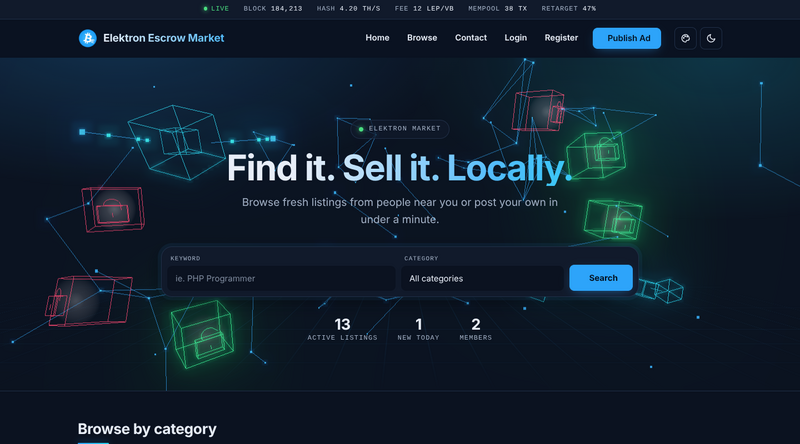
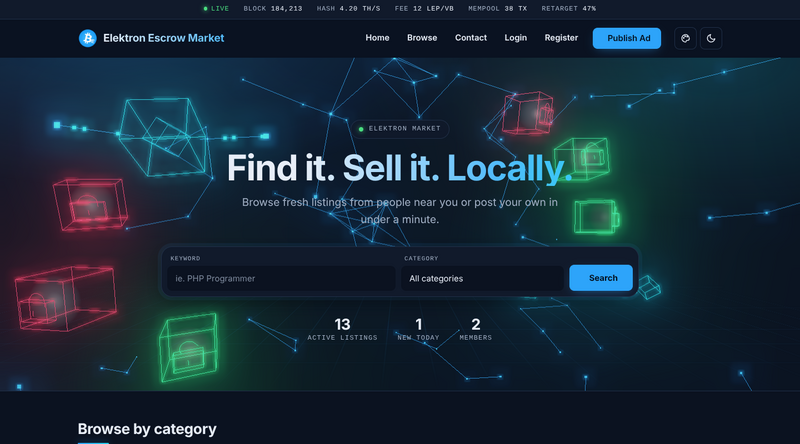
Set the hero glow between subtle and strong

diff --git a/osclass/osclass-elektron/js/hero-three.min.js b/osclass/osclass-elektron/js/hero-three.min.js
@@ -3997,4 +3997,4 @@ void main() {
 
 			#endif
 
-		}`};var lr=class extends Oe{constructor(){super();let t=Ql;this.uniforms=Nn.clone(t.uniforms),this.material=new Ks({name:t.name,uniforms:this.uniforms,vertexShader:t.vertexShader,fragmentShader:t.fragmentShader}),this.fsQuad=new Fn(this.material),this._outputColorSpace=null,this._toneMapping=null}render(t,e,n){this.uniforms.tDiffuse.value=n.texture,this.uniforms.toneMappingExposure.value=t.toneMappingExposure,(this._outputColorSpace!==t.outputColorSpace||this._toneMapping!==t.toneMapping)&&(this._outputColorSpace=t.outputColorSpace,this._toneMapping=t.toneMapping,this.material.defines={},qt.getTransfer(this._outputColorSpace)===Kt&&(this.material.defines.SRGB_TRANSFER=""),this._toneMapping===no?this.material.defines.LINEAR_TONE_MAPPING="":this._toneMapping===io?this.material.defines.REINHARD_TONE_MAPPING="":this._toneMapping===so?this.material.defines.CINEON_TONE_MAPPING="":this._toneMapping===ro?this.material.defines.ACES_FILMIC_TONE_MAPPING="":this._toneMapping===ao?this.material.defines.AGX_TONE_MAPPING="":this._toneMapping===oo&&(this.material.defines.NEUTRAL_TONE_MAPPING=""),this.material.needsUpdate=!0),this.renderToScreen===!0?(t.setRenderTarget(null),this.fsQuad.render(t)):(t.setRenderTarget(e),this.clear&&t.clear(t.autoClearColor,t.autoClearDepth,t.autoClearStencil),this.fsQuad.render(t))}dispose(){this.material.dispose(),this.fsQuad.dispose()}};function jl(){"use strict";var i=document.querySelector(".hero-canvas");if(!i)return;var t=document.documentElement,e=!!(window.matchMedia&&window.matchMedia("(prefers-reduced-motion: reduce)").matches),n=t.getAttribute("data-motion")!=="respect",s=e&&!n,r=e?.5:1,a=window.matchMedia&&window.matchMedia("(max-width: 720px)").matches,o;try{o=new qs({canvas:i,alpha:!0,antialias:!0,powerPreference:"low-power"})}catch(J){window.console&&console.warn("Elektron hero: WebGL unavailable",J);return}i.setAttribute("data-engine","three");var l=a?44:90,c=2.6,u=l*6,d={x:11,y:6,z:5},f=new Ys,m=new ye(55,1,.1,100);m.position.z=11;var g=new ar(o);g.addPass(new or(f,m)),g.addPass(new Ii(new zt(256,256),.32,.3,.45)),g.addPass(new lr);var v=!1;function p(J){v=J,o.setClearColor(0,J?1:0),i.setAttribute("data-bloom",J?"1":"0")}var h=new Ce;f.add(h);for(var E=new Float32Array(l*3),w=new Float32Array(l*3),M=0;M<l;M++)E[M*3]=(Math.random()-.5)*d.x*2,E[M*3+1]=(Math.random()-.5)*d.y*2,E[M*3+2]=(Math.random()-.5)*d.z*2,w[M*3]=(Math.random()-.5)*.006,w[M*3+1]=(Math.random()-.5)*.006,w[M*3+2]=(Math.random()-.5)*.006;var F=new le;F.setAttribute("position",new oe(E,3));var T=new Un({size:.12,transparent:!0,opacity:.9,depthWrite:!1,blending:Ye});h.add(new Kn(F,T));var A=new Float32Array(u*6),D=new le;D.setAttribute("position",new oe(A,3)),D.setDrawRange(0,0);var S=new nn({transparent:!0,opacity:.28,depthWrite:!1,blending:Ye});h.add(new Pe(D,S));for(var y=new nn({transparent:!0,opacity:.7,depthWrite:!1}),C=new nn({transparent:!0,opacity:.45,depthWrite:!1}),G=new Ce,z=new Qn(new en(1.1,1.1,1.1)),q=a?4:6,K=[],H=0;H<q;H++){var j=new Pe(z,y);if(j.position.set((H-(q-1)/2)*2.1,Math.sin(H*.9)*.5,0),G.add(j),K.push(j),H>0){var V=K[H-1].position,lt=new le;lt.setAttribute("position",new oe(new Float32Array([V.x+.55,V.y,0,j.position.x-.55,j.position.y,0]),3)),G.add(new Pe(lt,C))}}h.add(G);var ct=new Ce,_t=[-2.7,.2,0],Ut=[2.7,.2,0],Zt=new Pe(new Qn(new en(1.5,1.5,1.5)),y),X=new Pe(new Qn(new en(.7,.7,.7)),C),tt=new Ce;tt.add(Zt),tt.add(X),ct.add(tt);var xt=new le;xt.setAttribute("position",new oe(new Float32Array(_t.concat(Ut)),3));var st=new Un({size:.42,transparent:!0,opacity:.95,depthWrite:!1,blending:Ye});ct.add(new Kn(xt,st));var Tt=new le;Tt.setAttribute("position",new oe(new Float32Array([_t[0],_t[1],0,-.85,0,0,Ut[0],Ut[1],0,.85,0,0]),3));var Rt=new nn({transparent:!0,opacity:.5,depthWrite:!1});ct.add(new Pe(Tt,Rt));var Ft=6,Qt=new Float32Array(Ft*3),Gt=new le;Gt.setAttribute("position",new oe(Qt,3));var ee=new Un({size:.26,transparent:!0,opacity:1,depthWrite:!1,blending:Ye});ct.add(new Kn(Gt,ee)),h.add(ct);var L="#ff2d4a",be="#2dff7a",Wt="#d11a36",Xt="#0f9d4a";function Et(){var J=128,nt=document.createElement("canvas");nt.width=nt.height=J;var vt=nt.getContext("2d"),it=vt.createRadialGradient(J/2,J/2,0,J/2,J/2,J/2);return it.addColorStop(0,"rgba(255,255,255,1)"),it.addColorStop(.35,"rgba(255,255,255,0.35)"),it.addColorStop(1,"rgba(255,255,255,0)"),vt.fillStyle=it,vt.fillRect(0,0,J,J),new $s(nt)}var te=Et(),wt=new nn({transparent:!0,opacity:.95,depthWrite:!1}),b=new nn({transparent:!0,opacity:.95,depthWrite:!1}),_=new Qn(new en(.6,.44,.16));function N(J,nt,vt,it){for(var It=[],Ht=0;Ht<it;Ht++){var ne=nt+(vt-nt)*Ht/it,we=nt+(vt-nt)*(Ht+1)/it;It.push(Math.cos(ne)*J,Math.sin(ne)*J,0,Math.cos(we)*J,Math.sin(we)*J,0)}var ce=new le;return ce.setAttribute("position",new oe(new Float32Array(It),3)),ce}var Z=N(.17,0,Math.PI,14);function $(J,nt){var vt=new Ce,it=new Pe(_,J);it.position.y=-.1,vt.add(it);var It=new Ce;It.add(new Pe(Z,J));var Ht=new le;Ht.setAttribute("position",new oe(new Float32Array([-.17,0,0,-.17,nt?.05:0,0,.17,0,0,.17,-.12,0]),3)),It.add(new Pe(Ht,J)),It.position.set(0,.12,0),nt&&(It.position.set(-.17,.2,0),It.rotation.z=.7,It.position.x=0),vt.add(It);var ne=new le;return ne.setAttribute("position",new oe(new Float32Array([0,-.06,.09,0,-.18,.09]),3)),vt.add(new Pe(ne,J)),vt}var W=!1,gt=[],rt=[];function mt(J){var nt=new Ce,vt=J?b:wt,it=new Pe(z,vt);nt.add(it);var It=$(vt,J);It.position.z=.62,nt.add(It);var Ht=new le;Ht.setAttribute("position",new oe(new Float32Array([0,0,.3]),3));var ne=new Un({size:3.4,map:te,transparent:!0,opacity:.5,depthWrite:!1,blending:Ye});return ne.userData={open:J},rt.push(ne),nt.add(new Kn(Ht,ne)),nt.userData={phase:Math.random()*Math.PI*2,open:J,glow:ne},gt.push(nt),h.add(nt),nt}for(var Vt={wide:[[-11.2,-2.6,-2.5,!1],[-7.6,-4.6,-3,!0],[9.8,3.4,-3,!0],[-11.4,.6,-4,!1],[7.2,5.2,-3.5,!1],[11.6,.2,-4,!0]],narrow:[[-3,6,-3],[3,5.2,-3],[-3,-6.1,-3],[3,-5.3,-3]]},Q=0;Q<Vt.wide.length;Q++)mt(Vt.wide[Q][3]);function ft(J,nt){for(var vt=0;vt<gt.length;vt++){var it=J[vt],It=gt[vt];It.visible=!!it,it&&(It.position.set(it[0],it[1],it[2]),It.scale.setScalar(nt),It.userData.baseY=it[1])}}function At(J){J>=1.25?(ct.position.set(-8.4,3.3,-3),ct.scale.setScalar(1.3),G.position.set(10.4,-3,-3),G.scale.setScalar(.66),ft(Vt.wide,1.5)):(ft(Vt.narrow,.8),ct.position.set(0,6.1,-3),ct.scale.setScalar(.55),G.position.set(0,-6.2,-3),G.scale.setScalar(.5))}function Ct(){var J=window.getComputedStyle(t),nt=new Lt(J.getPropertyValue("--pal-accent").trim()||"#2da4fa"),vt=new Lt(J.getPropertyValue("--pal-accent-2").trim()||"#22d3ee"),it=t.getAttribute("data-scheme")==="light"||!t.getAttribute("data-scheme")&&t.getAttribute("data-default-scheme")==="light";it&&(nt=new Lt(J.getPropertyValue("--pal-l-link").trim()||"#0a67b4"));var It=!it;p(It);function Ht(ce,$e,ei,Zi){ce.color.copy($e),It&&ce.color.multiplyScalar(ei),ce.opacity=Zi}Ht(T,nt,1.15,it?.75:1),Ht(S,nt,1,it?.35:.6),Ht(st,nt,1.5,1),Ht(Rt,nt,1.1,it?.5:.85),Ht(ee,vt,1.8,1),Ht(y,vt,1.1,it?.7:1),Ht(C,vt,1,it?.45:.8),Ht(wt,new Lt(it?Wt:L),1.7,1),Ht(b,new Lt(it?Xt:be),1.35,1),W=it;for(var ne=it?Cn:Ye,we=0;we<rt.length;we++)rt[we].blending=ne,rt[we].needsUpdate=!0;T.blending=S.blending=st.blending=ee.blending=ne,T.needsUpdate=S.needsUpdate=st.needsUpdate=ee.needsUpdate=!0}Ct(),ft(Vt.wide,1.5),new MutationObserver(function(){Ct(),s&&at(0)}).observe(t,{attributes:!0,attributeFilter:["data-scheme","data-palette"]});function pt(){var J=i.clientWidth,nt=i.clientHeight;if(!(!J||!nt)){var vt=Math.min(window.devicePixelRatio||1,a?1:1.5);o.setPixelRatio(vt),o.setSize(J,nt,!1),g.setPixelRatio(vt),g.setSize(J,nt),m.aspect=J/nt,m.updateProjectionMatrix(),At(m.aspect)}}pt(),window.ResizeObserver?new ResizeObserver(pt).observe(i):window.addEventListener("resize",pt);var Pt={x:0,y:0,tx:0,ty:0};s||window.addEventListener("pointermove",function(J){Pt.tx=(J.clientX/window.innerWidth-.5)*2,Pt.ty=(J.clientY/window.innerHeight-.5)*2},{passive:!0});function Nt(){for(var J=0,nt=c*c,vt=0;vt<l&&J<u;vt++)for(var it=vt+1;it<l&&J<u;it++){var It=E[vt*3]-E[it*3],Ht=E[vt*3+1]-E[it*3+1],ne=E[vt*3+2]-E[it*3+2];It*It+Ht*Ht+ne*ne<nt&&(A.set(E.subarray(vt*3,vt*3+3),J*6),A.set(E.subarray(it*3,it*3+3),J*6+3),J++)}D.setDrawRange(0,J*2),D.attributes.position.needsUpdate=!0}function jt(J){for(var nt=0;nt<Ft;nt++){var vt=nt%2===0,it=(J*35e-5+nt/Ft*1.7)%1,It=vt?_t[0]:Ut[0],Ht=vt?-.85:.85;Qt[nt*3]=It+(Ht-It)*it,Qt[nt*3+1]=_t[1]+(0-_t[1])*it,Qt[nt*3+2]=0}Gt.attributes.position.needsUpdate=!0}function R(J){for(var nt=J*r,vt=0;vt<l;vt++)for(var it=0;it<3;it++){var It=vt*3+it,Ht=it===0?d.x:it===1?d.y:d.z;E[It]+=w[It]*r,(E[It]>Ht||E[It]<-Ht)&&(w[It]*=-1)}F.attributes.position.needsUpdate=!0,Nt(),jt(nt),Pt.x+=(Pt.tx-Pt.x)*.04,Pt.y+=(Pt.ty-Pt.y)*.04,h.rotation.y=nt*6e-5+Pt.x*.18,h.rotation.x=Pt.y*.1;for(var ne=0;ne<K.length;ne++)K[ne].rotation.y=nt*4e-4+ne*.5,K[ne].rotation.x=nt*2e-4+ne*.3;for(var we=0;we<gt.length;we++){var ce=gt[we],$e=ce.userData.phase;ce.rotation.y=Math.sin(nt*5e-4+$e)*.7,ce.rotation.x=Math.sin(nt*4e-4+$e*1.3)*.25,ce.position.y=ce.userData.baseY+Math.sin(nt*7e-4+$e)*.25;var ei=.5+.5*Math.sin(nt*(ce.userData.open?.0016:.0027)+$e);ce.userData.glow.opacity=(W?.28:.03)+ei*(W?.3:.08)}Zt.rotation.y=nt*5e-4,Zt.rotation.x=nt*3e-4,X.rotation.y=-nt*9e-4,X.rotation.z=nt*6e-4}function at(J){R(J),v?g.render():o.render(f,m)}if(s){at(0);return}var k=0,Y=!0;function ut(J){k=0,!(!Y||document.hidden)&&(at(J),k=window.requestAnimationFrame(ut))}function ht(){k||(k=window.requestAnimationFrame(ut))}window.IntersectionObserver&&new IntersectionObserver(function(J){Y=J[0].isIntersecting,Y&&ht()}).observe(i),document.addEventListener("visibilitychange",ht),ht()}document.readyState==="loading"?document.addEventListener("DOMContentLoaded",jl):jl();})();
+		}`};var lr=class extends Oe{constructor(){super();let t=Ql;this.uniforms=Nn.clone(t.uniforms),this.material=new Ks({name:t.name,uniforms:this.uniforms,vertexShader:t.vertexShader,fragmentShader:t.fragmentShader}),this.fsQuad=new Fn(this.material),this._outputColorSpace=null,this._toneMapping=null}render(t,e,n){this.uniforms.tDiffuse.value=n.texture,this.uniforms.toneMappingExposure.value=t.toneMappingExposure,(this._outputColorSpace!==t.outputColorSpace||this._toneMapping!==t.toneMapping)&&(this._outputColorSpace=t.outputColorSpace,this._toneMapping=t.toneMapping,this.material.defines={},qt.getTransfer(this._outputColorSpace)===Kt&&(this.material.defines.SRGB_TRANSFER=""),this._toneMapping===no?this.material.defines.LINEAR_TONE_MAPPING="":this._toneMapping===io?this.material.defines.REINHARD_TONE_MAPPING="":this._toneMapping===so?this.material.defines.CINEON_TONE_MAPPING="":this._toneMapping===ro?this.material.defines.ACES_FILMIC_TONE_MAPPING="":this._toneMapping===ao?this.material.defines.AGX_TONE_MAPPING="":this._toneMapping===oo&&(this.material.defines.NEUTRAL_TONE_MAPPING=""),this.material.needsUpdate=!0),this.renderToScreen===!0?(t.setRenderTarget(null),this.fsQuad.render(t)):(t.setRenderTarget(e),this.clear&&t.clear(t.autoClearColor,t.autoClearDepth,t.autoClearStencil),this.fsQuad.render(t))}dispose(){this.material.dispose(),this.fsQuad.dispose()}};function jl(){"use strict";var i=document.querySelector(".hero-canvas");if(!i)return;var t=document.documentElement,e=!!(window.matchMedia&&window.matchMedia("(prefers-reduced-motion: reduce)").matches),n=t.getAttribute("data-motion")!=="respect",s=e&&!n,r=e?.5:1,a=window.matchMedia&&window.matchMedia("(max-width: 720px)").matches,o;try{o=new qs({canvas:i,alpha:!0,antialias:!0,powerPreference:"low-power"})}catch(J){window.console&&console.warn("Elektron hero: WebGL unavailable",J);return}i.setAttribute("data-engine","three");var l=a?44:90,c=2.6,u=l*6,d={x:11,y:6,z:5},f=new Ys,m=new ye(55,1,.1,100);m.position.z=11;var g=new ar(o);g.addPass(new or(f,m)),g.addPass(new Ii(new zt(256,256),.5,.35,.32)),g.addPass(new lr);var v=!1;function p(J){v=J,o.setClearColor(0,J?1:0),i.setAttribute("data-bloom",J?"1":"0")}var h=new Ce;f.add(h);for(var E=new Float32Array(l*3),w=new Float32Array(l*3),M=0;M<l;M++)E[M*3]=(Math.random()-.5)*d.x*2,E[M*3+1]=(Math.random()-.5)*d.y*2,E[M*3+2]=(Math.random()-.5)*d.z*2,w[M*3]=(Math.random()-.5)*.006,w[M*3+1]=(Math.random()-.5)*.006,w[M*3+2]=(Math.random()-.5)*.006;var F=new le;F.setAttribute("position",new oe(E,3));var T=new Un({size:.12,transparent:!0,opacity:.9,depthWrite:!1,blending:Ye});h.add(new Kn(F,T));var A=new Float32Array(u*6),D=new le;D.setAttribute("position",new oe(A,3)),D.setDrawRange(0,0);var S=new nn({transparent:!0,opacity:.28,depthWrite:!1,blending:Ye});h.add(new Pe(D,S));for(var y=new nn({transparent:!0,opacity:.7,depthWrite:!1}),C=new nn({transparent:!0,opacity:.45,depthWrite:!1}),G=new Ce,z=new Qn(new en(1.1,1.1,1.1)),q=a?4:6,K=[],H=0;H<q;H++){var j=new Pe(z,y);if(j.position.set((H-(q-1)/2)*2.1,Math.sin(H*.9)*.5,0),G.add(j),K.push(j),H>0){var V=K[H-1].position,lt=new le;lt.setAttribute("position",new oe(new Float32Array([V.x+.55,V.y,0,j.position.x-.55,j.position.y,0]),3)),G.add(new Pe(lt,C))}}h.add(G);var ct=new Ce,_t=[-2.7,.2,0],Ut=[2.7,.2,0],Zt=new Pe(new Qn(new en(1.5,1.5,1.5)),y),X=new Pe(new Qn(new en(.7,.7,.7)),C),tt=new Ce;tt.add(Zt),tt.add(X),ct.add(tt);var xt=new le;xt.setAttribute("position",new oe(new Float32Array(_t.concat(Ut)),3));var st=new Un({size:.42,transparent:!0,opacity:.95,depthWrite:!1,blending:Ye});ct.add(new Kn(xt,st));var Tt=new le;Tt.setAttribute("position",new oe(new Float32Array([_t[0],_t[1],0,-.85,0,0,Ut[0],Ut[1],0,.85,0,0]),3));var Rt=new nn({transparent:!0,opacity:.5,depthWrite:!1});ct.add(new Pe(Tt,Rt));var Ft=6,Qt=new Float32Array(Ft*3),Gt=new le;Gt.setAttribute("position",new oe(Qt,3));var ee=new Un({size:.26,transparent:!0,opacity:1,depthWrite:!1,blending:Ye});ct.add(new Kn(Gt,ee)),h.add(ct);var L="#ff2d4a",be="#2dff7a",Wt="#d11a36",Xt="#0f9d4a";function Et(){var J=128,nt=document.createElement("canvas");nt.width=nt.height=J;var vt=nt.getContext("2d"),it=vt.createRadialGradient(J/2,J/2,0,J/2,J/2,J/2);return it.addColorStop(0,"rgba(255,255,255,1)"),it.addColorStop(.35,"rgba(255,255,255,0.35)"),it.addColorStop(1,"rgba(255,255,255,0)"),vt.fillStyle=it,vt.fillRect(0,0,J,J),new $s(nt)}var te=Et(),wt=new nn({transparent:!0,opacity:.95,depthWrite:!1}),b=new nn({transparent:!0,opacity:.95,depthWrite:!1}),_=new Qn(new en(.6,.44,.16));function N(J,nt,vt,it){for(var It=[],Ht=0;Ht<it;Ht++){var ne=nt+(vt-nt)*Ht/it,we=nt+(vt-nt)*(Ht+1)/it;It.push(Math.cos(ne)*J,Math.sin(ne)*J,0,Math.cos(we)*J,Math.sin(we)*J,0)}var ce=new le;return ce.setAttribute("position",new oe(new Float32Array(It),3)),ce}var Z=N(.17,0,Math.PI,14);function $(J,nt){var vt=new Ce,it=new Pe(_,J);it.position.y=-.1,vt.add(it);var It=new Ce;It.add(new Pe(Z,J));var Ht=new le;Ht.setAttribute("position",new oe(new Float32Array([-.17,0,0,-.17,nt?.05:0,0,.17,0,0,.17,-.12,0]),3)),It.add(new Pe(Ht,J)),It.position.set(0,.12,0),nt&&(It.position.set(-.17,.2,0),It.rotation.z=.7,It.position.x=0),vt.add(It);var ne=new le;return ne.setAttribute("position",new oe(new Float32Array([0,-.06,.09,0,-.18,.09]),3)),vt.add(new Pe(ne,J)),vt}var W=!1,gt=[],rt=[];function mt(J){var nt=new Ce,vt=J?b:wt,it=new Pe(z,vt);nt.add(it);var It=$(vt,J);It.position.z=.62,nt.add(It);var Ht=new le;Ht.setAttribute("position",new oe(new Float32Array([0,0,.3]),3));var ne=new Un({size:3.4,map:te,transparent:!0,opacity:.5,depthWrite:!1,blending:Ye});return ne.userData={open:J},rt.push(ne),nt.add(new Kn(Ht,ne)),nt.userData={phase:Math.random()*Math.PI*2,open:J,glow:ne},gt.push(nt),h.add(nt),nt}for(var Vt={wide:[[-11.2,-2.6,-2.5,!1],[-7.6,-4.6,-3,!0],[9.8,3.4,-3,!0],[-11.4,.6,-4,!1],[7.2,5.2,-3.5,!1],[11.6,.2,-4,!0]],narrow:[[-3,6,-3],[3,5.2,-3],[-3,-6.1,-3],[3,-5.3,-3]]},Q=0;Q<Vt.wide.length;Q++)mt(Vt.wide[Q][3]);function ft(J,nt){for(var vt=0;vt<gt.length;vt++){var it=J[vt],It=gt[vt];It.visible=!!it,it&&(It.position.set(it[0],it[1],it[2]),It.scale.setScalar(nt),It.userData.baseY=it[1])}}function At(J){J>=1.25?(ct.position.set(-8.4,3.3,-3),ct.scale.setScalar(1.3),G.position.set(10.4,-3,-3),G.scale.setScalar(.66),ft(Vt.wide,1.5)):(ft(Vt.narrow,.8),ct.position.set(0,6.1,-3),ct.scale.setScalar(.55),G.position.set(0,-6.2,-3),G.scale.setScalar(.5))}function Ct(){var J=window.getComputedStyle(t),nt=new Lt(J.getPropertyValue("--pal-accent").trim()||"#2da4fa"),vt=new Lt(J.getPropertyValue("--pal-accent-2").trim()||"#22d3ee"),it=t.getAttribute("data-scheme")==="light"||!t.getAttribute("data-scheme")&&t.getAttribute("data-default-scheme")==="light";it&&(nt=new Lt(J.getPropertyValue("--pal-l-link").trim()||"#0a67b4"));var It=!it;p(It);function Ht(ce,$e,ei,Zi){ce.color.copy($e),It&&ce.color.multiplyScalar(ei),ce.opacity=Zi}Ht(T,nt,1.4,it?.75:1),Ht(S,nt,1.18,it?.35:.6),Ht(st,nt,1.8,1),Ht(Rt,nt,1.3,it?.5:.85),Ht(ee,vt,2.1,1),Ht(y,vt,1.3,it?.7:1),Ht(C,vt,1.15,it?.45:.8),Ht(wt,new Lt(it?Wt:L),2,1),Ht(b,new Lt(it?Xt:be),1.6,1),W=it;for(var ne=it?Cn:Ye,we=0;we<rt.length;we++)rt[we].blending=ne,rt[we].needsUpdate=!0;T.blending=S.blending=st.blending=ee.blending=ne,T.needsUpdate=S.needsUpdate=st.needsUpdate=ee.needsUpdate=!0}Ct(),ft(Vt.wide,1.5),new MutationObserver(function(){Ct(),s&&at(0)}).observe(t,{attributes:!0,attributeFilter:["data-scheme","data-palette"]});function pt(){var J=i.clientWidth,nt=i.clientHeight;if(!(!J||!nt)){var vt=Math.min(window.devicePixelRatio||1,a?1:1.5);o.setPixelRatio(vt),o.setSize(J,nt,!1),g.setPixelRatio(vt),g.setSize(J,nt),m.aspect=J/nt,m.updateProjectionMatrix(),At(m.aspect)}}pt(),window.ResizeObserver?new ResizeObserver(pt).observe(i):window.addEventListener("resize",pt);var Pt={x:0,y:0,tx:0,ty:0};s||window.addEventListener("pointermove",function(J){Pt.tx=(J.clientX/window.innerWidth-.5)*2,Pt.ty=(J.clientY/window.innerHeight-.5)*2},{passive:!0});function Nt(){for(var J=0,nt=c*c,vt=0;vt<l&&J<u;vt++)for(var it=vt+1;it<l&&J<u;it++){var It=E[vt*3]-E[it*3],Ht=E[vt*3+1]-E[it*3+1],ne=E[vt*3+2]-E[it*3+2];It*It+Ht*Ht+ne*ne<nt&&(A.set(E.subarray(vt*3,vt*3+3),J*6),A.set(E.subarray(it*3,it*3+3),J*6+3),J++)}D.setDrawRange(0,J*2),D.attributes.position.needsUpdate=!0}function jt(J){for(var nt=0;nt<Ft;nt++){var vt=nt%2===0,it=(J*35e-5+nt/Ft*1.7)%1,It=vt?_t[0]:Ut[0],Ht=vt?-.85:.85;Qt[nt*3]=It+(Ht-It)*it,Qt[nt*3+1]=_t[1]+(0-_t[1])*it,Qt[nt*3+2]=0}Gt.attributes.position.needsUpdate=!0}function R(J){for(var nt=J*r,vt=0;vt<l;vt++)for(var it=0;it<3;it++){var It=vt*3+it,Ht=it===0?d.x:it===1?d.y:d.z;E[It]+=w[It]*r,(E[It]>Ht||E[It]<-Ht)&&(w[It]*=-1)}F.attributes.position.needsUpdate=!0,Nt(),jt(nt),Pt.x+=(Pt.tx-Pt.x)*.04,Pt.y+=(Pt.ty-Pt.y)*.04,h.rotation.y=nt*6e-5+Pt.x*.18,h.rotation.x=Pt.y*.1;for(var ne=0;ne<K.length;ne++)K[ne].rotation.y=nt*4e-4+ne*.5,K[ne].rotation.x=nt*2e-4+ne*.3;for(var we=0;we<gt.length;we++){var ce=gt[we],$e=ce.userData.phase;ce.rotation.y=Math.sin(nt*5e-4+$e)*.7,ce.rotation.x=Math.sin(nt*4e-4+$e*1.3)*.25,ce.position.y=ce.userData.baseY+Math.sin(nt*7e-4+$e)*.25;var ei=.5+.5*Math.sin(nt*(ce.userData.open?.0016:.0027)+$e);ce.userData.glow.opacity=(W?.28:.045)+ei*(W?.3:.11)}Zt.rotation.y=nt*5e-4,Zt.rotation.x=nt*3e-4,X.rotation.y=-nt*9e-4,X.rotation.z=nt*6e-4}function at(J){R(J),v?g.render():o.render(f,m)}if(s){at(0);return}var k=0,Y=!0;function ut(J){k=0,!(!Y||document.hidden)&&(at(J),k=window.requestAnimationFrame(ut))}function ht(){k||(k=window.requestAnimationFrame(ut))}window.IntersectionObserver&&new IntersectionObserver(function(J){Y=J[0].isIntersecting,Y&&ht()}).observe(i),document.addEventListener("visibilitychange",ht),ht()}document.readyState==="loading"?document.addEventListener("DOMContentLoaded",jl):jl();})();

diff --git a/osclass/osclass-elektron/js/src/hero-three.js b/osclass/osclass-elektron/js/src/hero-three.js
@@ -59,7 +59,7 @@ function init() {
   // Bloom makes every bright line, point and padlock glow in its own color (dark scheme only)
   var composer = new EffectComposer(renderer);
   composer.addPass(new RenderPass(scene, camera));
-  composer.addPass(new UnrealBloomPass(new Vector2(256, 256), 0.32, 0.3, 0.45));
+  composer.addPass(new UnrealBloomPass(new Vector2(256, 256), 0.5, 0.35, 0.32));
   composer.addPass(new OutputPass());
   var bloomOn = false;
 
@@ -304,15 +304,15 @@ function init() {
       }
       material.opacity = opacity;
     }
-    tint(pointMaterial, accent, 1.15, light ? 0.75 : 1);
-    tint(lineMaterial, accent, 1.0, light ? 0.35 : 0.6);
-    tint(partyMaterial, accent, 1.5, 1);
-    tint(pathMaterial, accent, 1.1, light ? 0.5 : 0.85);
-    tint(pulseMaterial, second, 1.8, 1);
-    tint(accent2Line, second, 1.1, light ? 0.7 : 1);
-    tint(accent2Soft, second, 1.0, light ? 0.45 : 0.8);
-    tint(redLine, new Color(light ? RED_LIGHT : RED), 1.7, 1);
-    tint(greenLine, new Color(light ? GREEN_LIGHT : GREEN), 1.35, 1);
+    tint(pointMaterial, accent, 1.4, light ? 0.75 : 1);
+    tint(lineMaterial, accent, 1.18, light ? 0.35 : 0.6);
+    tint(partyMaterial, accent, 1.8, 1);
+    tint(pathMaterial, accent, 1.3, light ? 0.5 : 0.85);
+    tint(pulseMaterial, second, 2.1, 1);
+    tint(accent2Line, second, 1.3, light ? 0.7 : 1);
+    tint(accent2Soft, second, 1.15, light ? 0.45 : 0.8);
+    tint(redLine, new Color(light ? RED_LIGHT : RED), 2.0, 1);
+    tint(greenLine, new Color(light ? GREEN_LIGHT : GREEN), 1.6, 1);
     lockLight = light;
     var blend = light ? NormalBlending : AdditiveBlending;
     for (var gi = 0; gi < lockGlowMaterials.length; gi++) {
@@ -424,7 +424,7 @@ function init() {
       lb.rotation.x = Math.sin(time * 0.0004 + ph * 1.3) * 0.25;
       lb.position.y = lb.userData.baseY + Math.sin(time * 0.0007 + ph) * 0.25;
       var pulse = 0.5 + 0.5 * Math.sin(time * (lb.userData.open ? 0.0016 : 0.0027) + ph);
-      lb.userData.glow.opacity = (lockLight ? 0.28 : 0.03) + pulse * (lockLight ? 0.3 : 0.08);
+      lb.userData.glow.opacity = (lockLight ? 0.28 : 0.045) + pulse * (lockLight ? 0.3 : 0.11);
     }
     vaultOuter.rotation.y = time * 0.0005;
     vaultOuter.rotation.x = time * 0.0003;

diff --git a/osclass/osclass-elektron/css/style.css b/osclass/osclass-elektron/css/style.css
@@ -3581,5 +3581,5 @@ body.subdomain-navigation.sd-with-icon #subdomains-list a img {
 /* Bloom render: the canvas is opaque black and is added to the hero with screen blending */
 .hero-canvas[data-bloom="1"] {
   mix-blend-mode: screen;
-  opacity: 0.85;
+  opacity: 0.88;
 }
